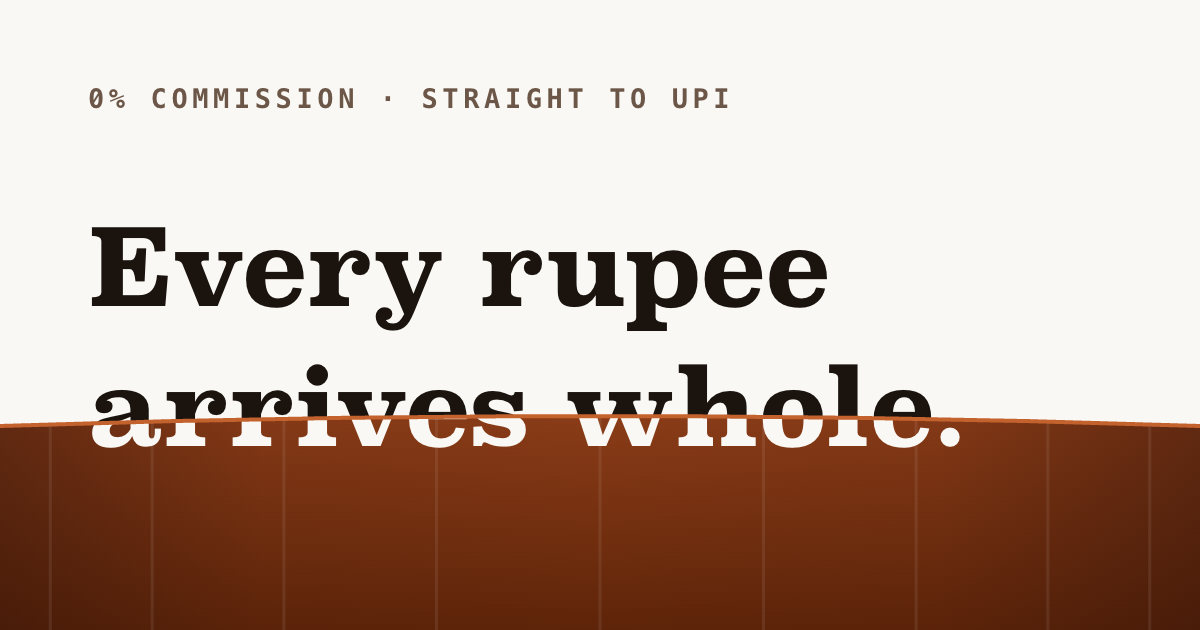
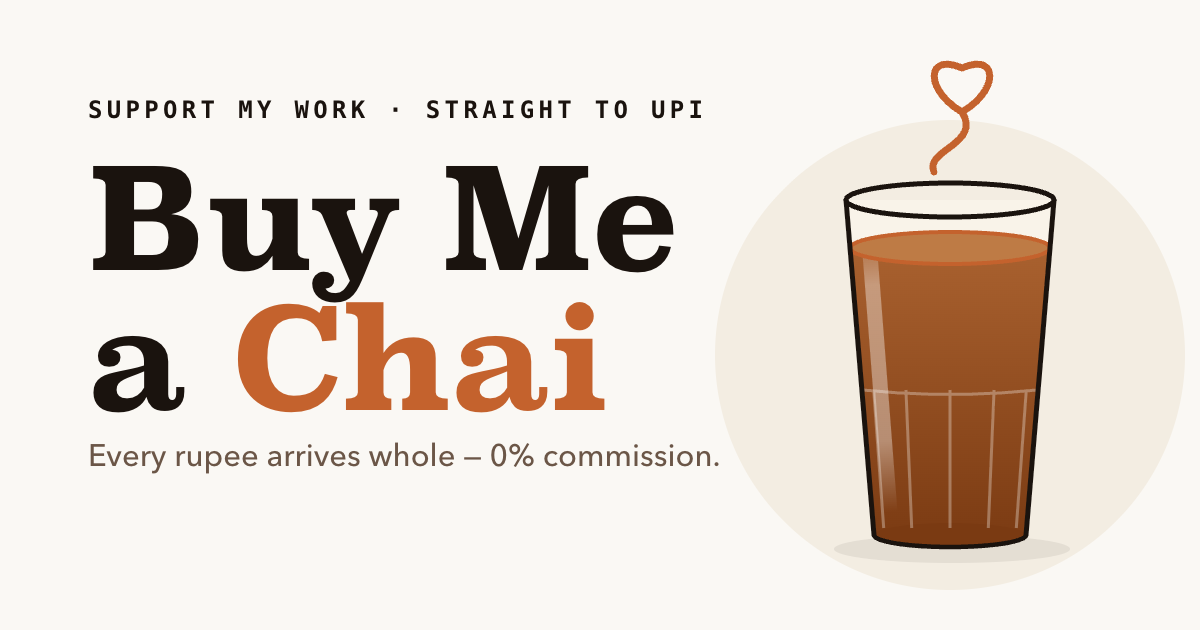
style: the social card says the ask — wordmark, cutting glass, heart
The half-submerged-type card was clever but carried no branding and no
clear message. The redesign makes the wordmark the headline (Buy Me a
Chai — next to og:title, the brand name is the ask), says SUPPORT MY
WORK out loud in the eyebrow, and seats a drawn cutting-chai glass with
heart-tied steam beside it. Ran a three-judge panel (message, 340px
thumbnail, craft) on the render; all cold reads land on 'support this
creator via UPI, zero commission'.

diff --git a/scripts/og-card.html b/scripts/og-card.html
@@ -29,27 +29,39 @@
   }
   .eyebrow {
     font-family: Menlo, ui-monospace, monospace;
-    font-size: 27px;
+    font-size: 24px;
     font-weight: 700;
-    letter-spacing: 0.17em;
+    letter-spacing: 0.18em;
   }
   .display {
     font-family: Superclarendon, Charter, Georgia, serif;
-    font-size: 106px;
+    font-size: 140px;
     font-weight: 700;
     letter-spacing: -0.015em;
+  }
+  .body {
+    font-family: 'Avenir Next', 'Helvetica Neue', sans-serif;
+    font-size: 31px;
+    font-weight: 500;
   }
 </style>
 
 <!--
-  Geometry notes, so a future edit does not break the idea:
-  * The waterline is a shallow convex arc, not a straight rule — a straight rule
-    reads as a two-tone background, the arc reads as the surface of a liquid.
-  * "arrives whole." is drawn TWICE at identical coordinates: once in ink clipped
-    to the region above the arc, once in cream clipped to below. The letters change
-    colour exactly at the waterline. That inversion is the whole card.
-  * The accent meniscus is stroked LAST, over the glyphs, so the surface is one
-    continuous line rather than something the text sits behind.
+  Design notes, so a future edit does not break the idea:
+  * The wordmark IS the message: "Buy Me a Chai" is both the product brand and,
+    read next to og:title ("Buy {name} a chai"), the literal ask. The eyebrow
+    says out loud what the page is for — SUPPORT MY WORK — in the creator's
+    voice, because the creator is the one sharing the link.
+  * The glass is drawn bold-outline, sticker-flat, so it survives 340px. The
+    facet band on its lower half is what makes it a cutting-chai glass and not
+    a generic cup; the ridges taper with the glass and are spaced by angle so
+    they crowd toward the edges like a real pressed tumbler.
+  * The steam is one continuous line that ties itself into a heart — gratitude
+    rising, crowning the glass in accent. (A rupee sign in the
+    steam was considered and rejected: rupees evaporating is the exact opposite
+    of "every rupee arrives whole".)
+  * The accent meniscus ring on the tea surface carries over from the previous
+    card — it is the brand gesture, the surface of the chai drawn in accent.
 -->
 <svg
   width="1200"
@@ -59,73 +71,107 @@
   shape-rendering="geometricPrecision"
   text-rendering="geometricPrecision"
 >
-  <title>Buy me a chai — every rupee arrives whole, 0% commission, straight to UPI</title>
+  <title>
+    Buy Me a Chai — support my work, straight to UPI. A cutting-chai glass with
+    steam curling into a heart; every rupee arrives whole, 0% commission.
+  </title>
 
   <defs>
-    <!-- Everything above the waterline. -->
-    <clipPath id="above">
-      <path d="M0,0 H1200 V426 Q600,406 0,426 Z" />
-    </clipPath>
-    <!-- Everything below it. -->
-    <clipPath id="below">
-      <path d="M0,426 Q600,406 1200,426 V630 H0 Z" />
-    </clipPath>
-    <!-- Tea darkens with depth, so the lower band is not a flat slab. -->
-    <linearGradient id="brew" x1="0" y1="406" x2="0" y2="630" gradientUnits="userSpaceOnUse">
-      <stop offset="0" stop-color="#8C3D18" />
-      <stop offset="1" stop-color="#5E2409" />
+    <!-- Tea darkens with depth. -->
+    <linearGradient id="brew" x1="0" y1="248" x2="0" y2="547" gradientUnits="userSpaceOnUse">
+      <stop offset="0" stop-color="#A9612F" />
+      <stop offset="1" stop-color="#7A3A12" />
     </linearGradient>
-    <!-- Curvature. Edge falloff is what makes a flat fill read as a cylinder —
-         without it the ridges below are just stripes. -->
-    <linearGradient id="curve" x1="0" y1="0" x2="1200" y2="0" gradientUnits="userSpaceOnUse">
-      <stop offset="0" stop-color="#2B1109" stop-opacity="0.42" />
-      <stop offset="0.22" stop-color="#2B1109" stop-opacity="0.06" />
-      <stop offset="0.5" stop-color="#2B1109" stop-opacity="0" />
-      <stop offset="0.78" stop-color="#2B1109" stop-opacity="0.06" />
-      <stop offset="1" stop-color="#2B1109" stop-opacity="0.42" />
+    <!-- The gloss streak fades in and out so it ends nowhere in particular. -->
+    <linearGradient id="shine" x1="868" y1="228" x2="890" y2="512" gradientUnits="userSpaceOnUse">
+      <stop offset="0" stop-color="#ffffff" stop-opacity="0" />
+      <stop offset="0.2" stop-color="#ffffff" stop-opacity="0.38" />
+      <stop offset="0.75" stop-color="#ffffff" stop-opacity="0.38" />
+      <stop offset="1" stop-color="#ffffff" stop-opacity="0" />
     </linearGradient>
+    <!-- The tea inside the glass: body + base cap. Ridges and shine clip to it. -->
+    <clipPath id="tea">
+      <path d="M850,248 L874,535 L1026,535 L1050,248 Z" />
+      <ellipse cx="950" cy="535" rx="76" ry="12" />
+    </clipPath>
+    <!-- The whole glass interior, tea and air alike — for the shine streak. -->
+    <clipPath id="glass">
+      <path d="M846,200 L874,535 L1026,535 L1054,200 Z" />
+      <ellipse cx="950" cy="535" rx="76" ry="12" />
+    </clipPath>
   </defs>
 
   <rect width="1200" height="630" fill="#faf8f4" />
 
-  <!-- The chai. Steeped accent, not the page accent: this file is fixed for
-       every clone, so it cannot follow a creator's theme.accent. -->
-  <path d="M0,426 Q600,406 1200,426 V630 H0 Z" fill="url(#brew)" />
+  <!-- ============ right column: the glass ============ -->
 
-  <g clip-path="url(#below)">
-    <rect width="1200" height="630" fill="url(#curve)" />
+  <!-- A quiet warm disc seats the glass so the right column holds together
+       at thumbnail size. -->
+  <circle cx="950" cy="355" r="235" fill="#f3ede2" />
+  <ellipse cx="952" cy="549" rx="118" ry="14" fill="#1a130e" opacity="0.07" />
 
-    <!-- The ridges of a cutting-chai glass — the one detail that tells it apart
-         from any other cup, and the reason this card is a glass rather than two
-         tones. Only in the tea, because that is where you would see them; the
-         cream above is air. Spaced evenly by ANGLE around the cylinder rather
-         than by distance, so they crowd toward the edges the way real ridges do.
-         Drawn under the type on purpose: physically the letters are in the glass
-         too, but darkening them at the edges costs more legibility than the
-         realism is worth at 340px. -->
-    <g stroke="#faf8f4" stroke-width="3" opacity="0.08">
-      <path d="M50.3,406 V630" />
-      <path d="M152.2,406 V630" />
-      <path d="M283.9,406 V630" />
-      <path d="M436.5,406 V630" />
-      <path d="M600,406 V630" />
-      <path d="M763.5,406 V630" />
-      <path d="M916.1,406 V630" />
-      <path d="M1047.8,406 V630" />
-      <path d="M1149.7,406 V630" />
-    </g>
+  <!-- Empty glass reads lighter than the halo behind it. -->
+  <path d="M846,200 L874,535 L1026,535 L1054,200 Z" fill="#fdf8ee" opacity="0.55" />
+
+  <!-- The chai. -->
+  <path d="M850,248 L874,535 L1026,535 L1050,248 Z" fill="url(#brew)" />
+  <ellipse cx="950" cy="535" rx="76" ry="12" fill="#7A3A12" />
+
+  <!-- The facet band of a cutting-chai glass — the detail that tells it apart
+       from any other cup. Ridges taper with the glass and are spaced by angle
+       around the cylinder, so they crowd toward the edges. -->
+  <g clip-path="url(#tea)" stroke="#faf8f4" stroke-width="3" opacity="0.32" fill="none">
+    <path d="M863,390 Q950,399 1037,390" />
+    <path d="M873.7,390 L883.7,528" />
+    <path d="M905.95,390 L911.7,528" />
+    <path d="M950,390 L950,528" />
+    <path d="M994.05,390 L988.3,528" />
+    <path d="M1026.3,390 L1016.3,528" />
   </g>
 
-  <text x="88" y="108" class="eyebrow" fill="#6b5647">0% COMMISSION · STRAIGHT TO UPI</text>
-
-  <text x="88" y="306" class="display" fill="#1a130e">Every rupee</text>
-
-  <g clip-path="url(#above)">
-    <text x="88" y="446" class="display" fill="#1a130e">arrives whole.</text>
-  </g>
-  <g clip-path="url(#below)">
-    <text x="88" y="446" class="display" fill="#faf8f4">arrives whole.</text>
+  <!-- Glass shine. -->
+  <g clip-path="url(#glass)">
+    <path d="M868,228 L890,512" stroke="url(#shine)" stroke-width="15" stroke-linecap="butt" />
   </g>
 
-  <path d="M0,426 Q600,406 1200,426" fill="none" stroke="#C4622D" stroke-width="4" />
+  <!-- The surface of the chai, ringed in accent — the meniscus is the brand
+       gesture carried over from the previous card. -->
+  <ellipse cx="950" cy="248" rx="100" ry="16" fill="#BE7B45" stroke="#C4622D" stroke-width="4" />
+
+  <!-- Bold ink outline, sticker-flat, so the glass survives 340px. -->
+  <g stroke="#1a130e" stroke-width="5" stroke-linecap="round" fill="none">
+    <ellipse cx="950" cy="200" rx="104" ry="17" />
+    <path d="M846,200 L874,535" />
+    <path d="M1054,200 L1026,535" />
+  </g>
+  <path
+    d="M874,535 A76,12 0 0 0 1026,535"
+    fill="none"
+    stroke="#1a130e"
+    stroke-width="4.5"
+    stroke-linecap="round"
+  />
+
+  <!-- One continuous line of steam that ties itself into a heart. It floats
+       clear of the rim: the accent stroke never crosses the ink outline. -->
+  <path
+    d="M934,172 C924,150 982,144 962,112 C924,90 926,52 962,68
+       C998,52 1000,90 962,112"
+    fill="none"
+    stroke="#C4622D"
+    stroke-width="7"
+    stroke-linecap="round"
+    stroke-linejoin="round"
+  />
+
+  <!-- ============ left column: the words ============ -->
+
+  <text x="88" y="118" class="eyebrow" fill="#1a130e">SUPPORT MY WORK · STRAIGHT TO UPI</text>
+
+  <text x="88" y="270" class="display" fill="#1a130e">Buy <tspan dx="-7">Me</tspan></text>
+  <text x="88" y="410" class="display" fill="#1a130e">a <tspan fill="#C4622D">Chai</tspan></text>
+
+  <text x="88" y="466" class="body" fill="#6b5647">
+    Every rupee arrives whole — 0% commission.
+  </text>
 </svg>

diff --git a/docs/DESIGN.md b/docs/DESIGN.md
@@ -94,9 +94,9 @@ The masthead, grid and footer share a `max-w-[480px] lg:max-w-[1040px]` shell so
 
 The picture that appears when a page is shared — WhatsApp above all, then X, LinkedIn, Slack. One file serves every clone, so it carries no name, no accent colour and no amounts: **everything personal is text**, baked per-creator into the served HTML by `chaiHead()` (`og:title`, `og:site_name`, `og:description`). Making the picture per-creator would need a build step that renders images, which this project does not have and does not want.
 
-**The card is a cutting-chai glass** — not a picture of one. The 1200×630 frame *is* the glass, filled to the cutting line, with the display line half-submerged: above the waterline the letters are ink in clear glass, below it they invert to cream under tea. The waterline is a shallow convex arc rather than a straight rule, because a straight rule reads as a two-tone background and an arc reads as a liquid surface. The brew field carries vertical ridges spaced evenly *by angle* around a cylinder, so they crowd toward the edges, plus edge falloff — the ridges are the one detail that distinguishes a cutting-chai glass from any other cup, and the falloff is what makes them read as curvature instead of stripes.
+**The wordmark is the message.** The display line is the product name itself — *Buy Me a Chai*, matching the masthead — because next to og:title ("Buy {name} a chai") the brand name literally is the ask. The eyebrow says out loud what the page is for, in the creator's voice, since the creator is the one sharing the link: `SUPPORT MY WORK · STRAIGHT TO UPI`. The subline is the product's honest pitch demoted to a proof point: `Every rupee arrives whole — 0% commission.` "Chai" is set in the accent, the two-colour wordmark of hand-painted tapri signage.
 
-The copy is the point of the joke: a cutting is half a glass, so the chai gets cut — **"Every rupee arrives whole."** does not. The eyebrow is `strings.disclosure` verbatim, so the card and the page it previews say the identical sentence.
+Beside the words sits a drawn cutting-chai glass — bold ink outline, sticker-flat, milky-caramel brew, so it survives 340px. The facet band on its lower half is what makes it a cutting glass and not a generic cup; the ridges taper with the glass and are spaced by *angle* around the cylinder so they crowd toward the edges like a real pressed tumbler. The tea surface is ringed in the accent — the meniscus, the one brand gesture carried over from the first card. The steam is a single continuous line that ties itself into a heart: gratitude rising. (A ₹ in the steam was considered and rejected — rupees evaporating is the exact opposite of "every rupee arrives whole".)
 
 Constraints any redesign must keep:
 